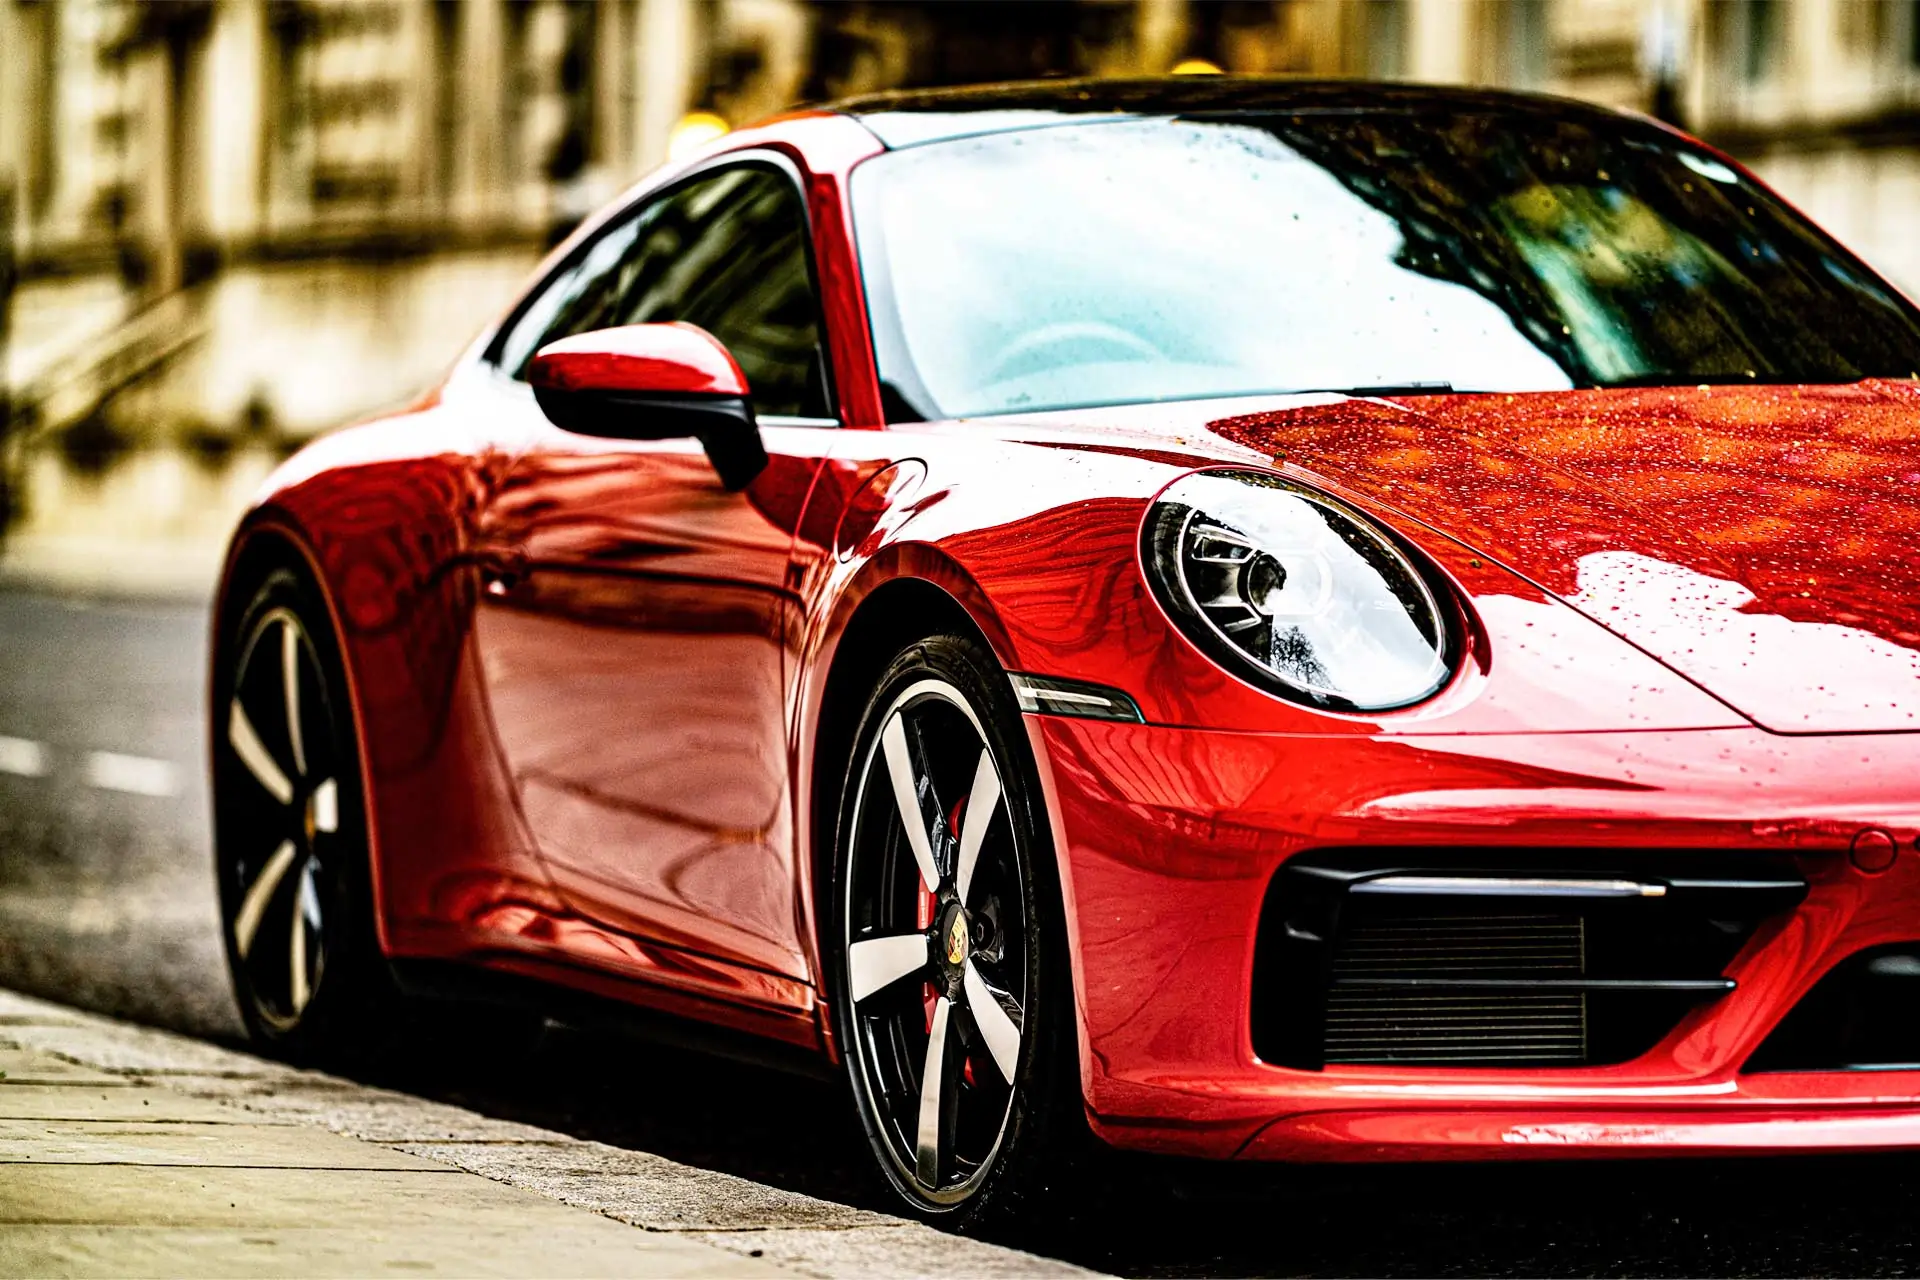
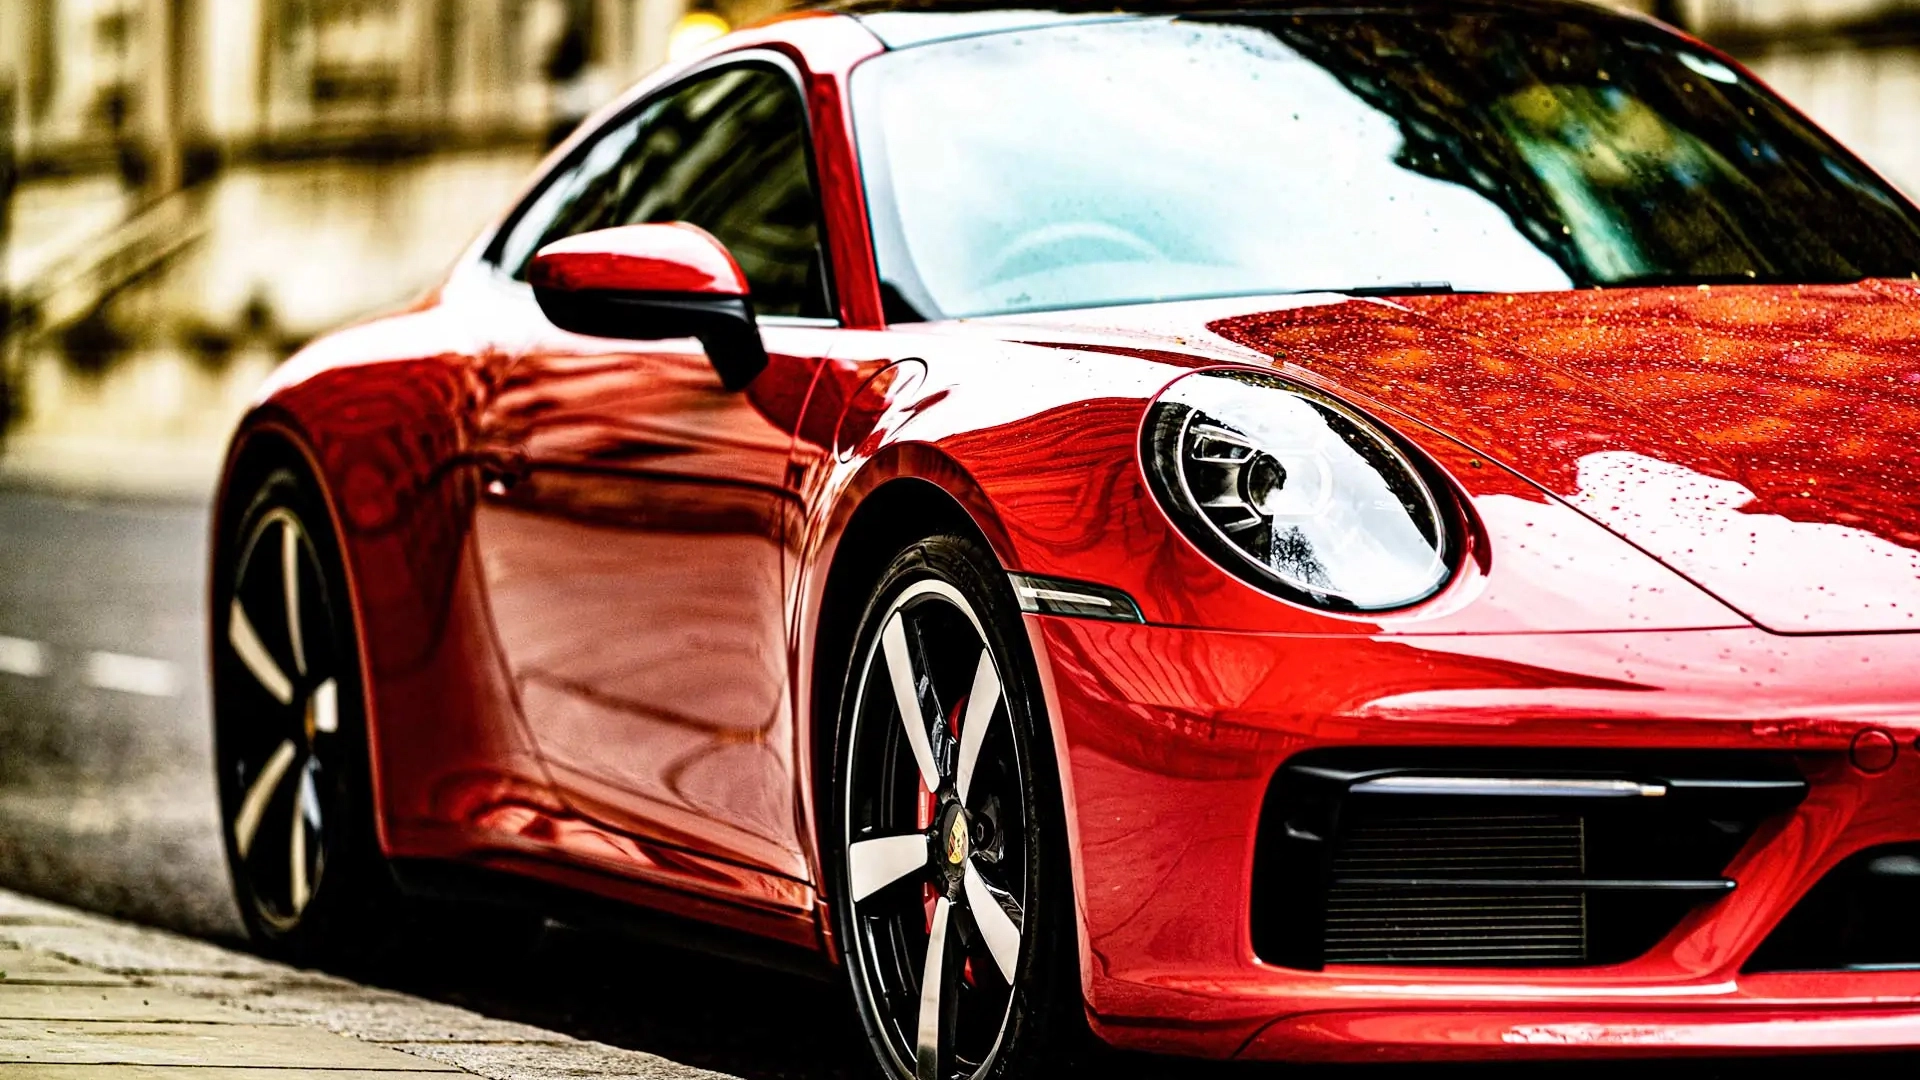
update

diff --git a/src/app/components/HeroIdea.tsx b/src/app/components/HeroIdea.tsx
@@ -1,4 +1,5 @@
 "use client";
+
 import React, { useEffect, useState } from "react";
 import gsap from "gsap";
 import { ScrollTrigger } from "gsap/ScrollTrigger";
@@ -6,107 +7,148 @@ import Image from "next/image";
 
 const Hero = () => {
   const [isLoading, setIsLoading] = useState(true);
-
-  gsap.registerPlugin(ScrollTrigger);
+  const [isGsapRegistered, setIsGsapRegistered] = useState(false);
 
   useEffect(() => {
-    if (!isLoading) {
-      // Batch animations for better performance
-      const tl = gsap.timeline();
-      
-      tl.fromTo(".cover", 
-        { x: "0%" }, 
-        { x: "100%", duration: 1.5, ease: "power2.out" }
-      )
-      .fromTo(".hero-content",
-        { opacity: 0, y: 50 },
-        { opacity: 1, y: 0, duration: 1.5, ease: "power2.out" },
-        "-=1"
-      )
-      .fromTo(".hero-title",
-        { opacity: 0, y: 20 },
-        { opacity: 1, y: 0, duration: 1, ease: "power2.out" },
-        "-=0.5"
-      )
-      .fromTo(".hero-subtitle",
-        { opacity: 0, y: 20 },
-        { opacity: 1, y: 0, duration: 1, ease: "power2.out" },
-        "-=0.7"
-      )
-      .fromTo(".hero-button",
-        { opacity: 0, y: 20 },
-        { opacity: 1, y: 0, duration: 1, ease: "power2.out" },
-        "-=0.7"
-      );
-
-      // Parallax effect
-      ScrollTrigger.create({
-        animation: gsap.to(".hero-bg-inner", { y: "-20%" }),
-        trigger: ".hero-section",
-        start: "top top",
-        end: "bottom top",
-        scrub: true,
-      });
-
-      // Optimized sparkle effect with reduced properties
-      gsap.to(".hero-title", {
-        duration: 2,
-        repeat: -1,
-        yoyo: true,
-        ease: "power1.inOut",
-        textShadow: "0 0 10px rgba(255,255,255,0.8)",
-      });
+    // Register GSAP plugin only once on client side
+    if (typeof window !== 'undefined' && !isGsapRegistered) {
+      gsap.registerPlugin(ScrollTrigger);
+      setIsGsapRegistered(true);
     }
-  }, [isLoading]);
 
-  const handleImageLoad = () => {
-    setIsLoading(false); // Trigger the animations when image is loaded
+    const init = async () => {
+      try {
+        // Load image and set loading state
+        const imagePromise = new Promise((resolve) => {
+          const img = new window.Image();
+          img.src = '/Herotest.webp';
+          img.onload = resolve;
+        });
+
+        await imagePromise;
+        setIsLoading(false);
+
+        // Run animations after image is loaded
+        if (isGsapRegistered) {
+          const tl = gsap.timeline({
+            defaults: { 
+              duration: 0.8,
+              ease: "power2.out"
+            }
+          });
+
+          tl.fromTo(".cover", 
+            { x: "0%" }, 
+            { x: "100%" }
+          ).fromTo(".hero-content", 
+            { opacity: 0, y: 20 }, 
+            { opacity: 1, y: 0 }, 
+            "-=0.5"
+          );
+
+          ScrollTrigger.create({
+            animation: gsap.to(".hero-bg-inner", { y: "-10%" }),
+            trigger: ".hero-section",
+            start: "top top",
+            end: "bottom top",
+            scrub: 1,
+          });
+        }
+      } catch (error) {
+        console.error('Failed to initialize:', error);
+        setIsLoading(false);
+      }
     };
 
+    init();
+
+    return () => {
+      if (isGsapRegistered) {
+        ScrollTrigger.getAll().forEach(t => t.kill());
+      }
+    };
+  }, [isGsapRegistered]);
+
   return (
-    <div className="hero-section relative w-full h-screen overflow-hidden">
-      {/* Background container */}
+    <section className="hero-section relative w-full h-screen overflow-hidden">
+      {/* Background Images */}
       <div className="hero-bg absolute top-0 left-0 w-full h-[120%] overflow-hidden">
         <div className="hero-bg-inner relative w-full h-full">
+          {/* Desktop Image */}
           <Image
-            src="/Hero.webp"
+            src="/Herotest.webp"
             alt="Car Painting Garage"
             fill
             priority
             quality={75}
-            placeholder="blur"
[1 lines of base64/hex data omitted]
-            sizes="100vw"
-            className="object-cover object-center"
-            style={{ 
-              transform: 'scale(1.2)',
-              willChange: 'transform'
+            sizes="(min-width: 1024px) 100vw, (min-width: 768px) 100vw, 100vw"
+            className="object-cover object-center hidden lg:block"
+            style={{
+              transform: 'scale(1.1)',
+              willChange: 'transform',
             }}
-            onLoad={handleImageLoad}
+          />
+          
+          {/* Tablet Image */}
+          <Image
+            src="/Hero-tablet.webp"
+            alt="Car Painting Garage"
+            fill
+            priority
+            quality={75}
+            sizes="100vw"
+            className="object-cover object-center hidden md:block lg:hidden"
+            style={{
+              transform: 'scale(1.1)',
+              willChange: 'transform',
+            }}
+          />
+          
+          {/* Mobile Image */}
+          <Image
+            src="/Hero-mobile.webp"
+            alt="Car Painting Garage"
+            fill
+            priority
+            quality={75}
+            sizes="100vw"
+            className="object-cover object-center block md:hidden"
+            style={{
+              transform: 'scale(1.1)',
+              willChange: 'transform',
+            }}
           />
         </div>
       </div>
 
       {/* Overlay */}
-      <div className="absolute top-0 left-0 w-full h-full bg-black/50 z-10" />
+      <div 
+        className="absolute inset-0 bg-black/50 z-10"
+        style={{ willChange: 'opacity' }}
+      />
 
       {/* Loading cover */}
-      <div className="cover absolute top-0 left-0 w-full h-full bg-gray-900 z-20" />
+      {isLoading && (
+        <div className="cover absolute inset-0 bg-gray-900 z-20 transform" />
+      )}
 
       {/* Content */}
-      <div className="hero-content relative w-full h-full flex flex-col justify-center items-center text-center z-30 px-4">
-        <h1 className="hero-title text-4xl md:text-6xl font-bold mb-6 text-white opacity-0 max-w-4xl">
+      <div className="hero-content absolute inset-0 flex flex-col justify-center items-center text-center z-30 px-4">
+        <h1 className="text-4xl md:text-6xl font-bold mb-6 text-white max-w-4xl">
           Transform Your Car
         </h1>
-        <p className="hero-subtitle text-xl md:text-2xl mb-8 text-gray-200 opacity-0 max-w-2xl">
+        <p className="text-xl md:text-2xl mb-8 text-gray-200 max-w-2xl">
           Expert car painting and refinishing services to make your vehicle shine like new.
         </p>
-        <button className="hero-button bg-blue-600 text-white px-8 py-3 rounded-lg hover:bg-blue-700 transition-colors opacity-0">
+        <button 
+          className="bg-blue-600 text-white px-8 py-3 rounded-lg hover:bg-blue-700 transition-colors"
+          style={{ touchAction: 'manipulation' }}
+        >
           Book Now
         </button>
       </div>
-    </div>
+    </section>
   );
 };
 
-export default Hero;
+export default React.memo(Hero);

diff --git a/src/middleware.ts b/src/middleware.ts
@@ -20,6 +20,6 @@ export const config = {
   // - API routes (`/api/...`)
   // - Image files (`/brands/...`, `/images/...`, etc.)
   matcher: [
-    '/((?!_next|api|brands|images|favicon.ico|logo.svg|Hero.webp).*)',
+    '/((?!_next|api|brands|images|favicon.ico|logo.svg|Hero-tablet.webp|Hero-mobile.webp|Herotest.webp).*)',
   ],
 };
